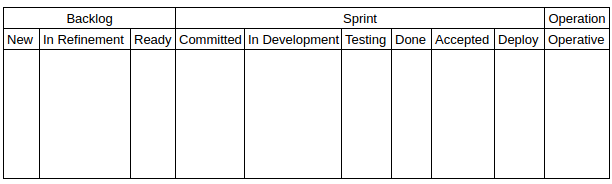
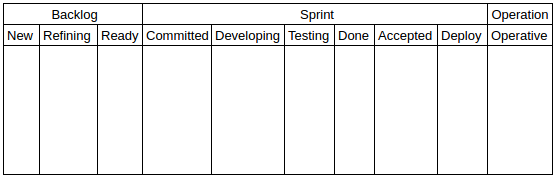
Add CFD diagram to scrumban section

Changed region(s): [[0.0, 0.0, 1.0, 0.9831]]

diff --git a/content/complementary.tex b/content/complementary.tex
@@ -392,19 +392,24 @@ Scrum y Lean tienen muchas coincidencias conceptuales. Para ambos, el componente
 
 \subsection{Ampliar Scrum con Kanban}
 
-Scrum se puede complementar y mejorar agregando Kanban. Para eso se busca entregar valor con entregas tempranas y frecuentes, focalizando en hacerlo mediante un flujo de trabajo constante, estable y eficiente. Para lograrlo se siguen tres pilares: mostrar el proceso del flujo de trabajo, limitar el trabajo en curso y optimizar el flujo. Para mostrar el proceso hay que reemplazar en el tablero kanban los estados ambiguos o genéricos por concretos, como por ejemplo el estado “en progreso” (“on going” o “doing”) por todos los estados reales del flujo de trabajo en curso.  Un ejemplo de un flujo completo (ver fig. \ref{fig:Scrum-Kanban-Board-to-Development}) puede ser: nueva (new), refinanda (in refinement), lista (ready), comprometida (committed), desarrollando (in development), probando (testing), completa (done), aceptada (accepted), desplegando (deploy) y en operación (operative). Hecho esto, el equipo debe buscar mantener el foco de trabajo del sprint en un límite de cantidad de historias que se trabajan en paralelo. El equipo debe buscar descubrir cuál es el límite con el que pueden trabajar con cadencia sin peligrar el objetivo del sprint. Y, finalmente, debe buscar que no haya cuellos de botella en ninguno de estos estados o pasos del flujo. Esto es lo básico que se debería hacer para sumar Kanban a Scrum. También se pueden agregar el manejo de las métricas Kanban, como el cycle time, y herramientas de monitoreo visual como el diagrama de flujo acumulado o CFD.
+Scrum se puede complementar y mejorar agregando Kanban. Para eso se busca entregar valor con entregas tempranas y frecuentes, focalizando en hacerlo mediante un flujo de trabajo constante, estable y eficiente. Para lograrlo se siguen tres pilares: mostrar el proceso del flujo de trabajo, limitar el trabajo en curso y optimizar el flujo. Para mostrar el proceso hay que reemplazar en el tablero kanban los estados ambiguos o genéricos por concretos, como por ejemplo el estado “en progreso” (“on going” o “doing”) por todos los estados reales del flujo de trabajo en curso.  Un ejemplo de un flujo completo (ver fig. \ref{fig:Scrum-Kanban-Board-to-Development}) puede ser: nueva (new), refinanda (refining), lista (ready), comprometida (committed), desarrollando (developming), probando (testing), completa (done), aceptada (accepted), desplegando (deploy) y en operación (operative). Hecho esto, el equipo debe buscar mantener el foco de trabajo del sprint en un límite de cantidad de historias que se trabajan en paralelo. El equipo debe buscar descubrir cuál es el límite con el que pueden trabajar con cadencia sin peligrar el objetivo del sprint. Y, finalmente, debe buscar que no haya cuellos de botella en ninguno de estos estados o pasos del flujo. Esto es lo básico que se debería hacer para sumar Kanban a Scrum. También se pueden agregar el manejo de las métricas Kanban, como el cycle time, y herramientas de monitoreo visual como el diagrama de flujo acumulado o CFD.
 
 \begin{figure}[h]
   \centering
   \includegraphics[width=1\textwidth]{Scrum-Kanban-Board-to-Development}
-  \caption{Tablero Kanban ejemplo para un equipo de desarrollo}
+  \caption{Tablero Scrum-Kanban ejemplo para un equipo de desarrollo}
   \centering
   \label{fig:Scrum-Kanban-Board-to-Development} %\ref{fig:Scrum-Kanban-Board-to-Development}
 \end{figure}
-
 
 \subsection{Ampliar Kanban con Scrum, Scrumban}
 
 Una metodología amiga de Scrum es Scrumban. Se trata de una metodología mixta y flexible entre Scrum y Kanban. Combina las la flexibilidad de Kanban y las características básicas de Scrum. Por un lado, se toma de Kanban lo de mantener un trabajo continuo, exponer el flujo de trabajo, el tablero de trabajo persistente, auto-asignaciones de tareas solamente por el sistema del tomar y jalar (pull), limitar el trabajo en curso y buscar optimizar el flujo teniendo en cuenta la métrica “cycle time”. Por otro, se agrega de Scrum la ceremonia de planning, la retrospectiva como reunión de mejora contínua (Kaizen), el trabajo en ciclos o iteraciones sin ser limitativo o restrictivo de trabajo y la priorización, que se recomienda hacer en cada planificación. Dentro de la flexibilidad que brinda, hace optativo el usar otras partes o prácticas de Scrum. Bajo esta metodología no es necesario estimar, puede ser algo optativo, ya que no se necesita calcular el trabajo que entra en una iteración porque el trabajo es continuo. Aunque sí se pueden estimar tiempos de entrega y/o tamaños de paquetes de trabajo. Por otro lado, al ser el trabajo contínuo y no tener un compromiso formal de trabajo comprometido en una iteración, los cambios y re-priorizaciones pueden hacerse en cualquier momento. También es muy flexible el tipo de roles de los miembros del equipo debido a que no prescribe roles específicos ni es necesaria la multidisciplinariedad que recomienda Scrum. Además, como se mencionó antes y al igual que en Kanban, el tablero permanece persistente, mientras que sólo cambian las tareas y sus prioridades. A diferencia de Scrum, donde el tablero de sprint se renueva en cada iteración. Relacionado a la planificación, en Scrumban se planifica focalizados en los releases y no es obligadamente necesario hacerse en la planning de cada iteración; pues, la planificación se puede realizar solo bajo demanda. Este método es muy útil principalmente para procesos de ritmo rápido, para startups, proyectos que requieren fabricación de productos constante, equipos y proyectos con ambientes muy dinámicos y cambiantes, equipos de solución de problemas de contingencias en producción, equipos de mantenimiento, soporte o desarrollo de infraestructura. También es útil para integrar (coordinar y sincronizar) otros equipos de soporte a los equipos Scrum, por ejemplo bajo el marco DevOps. En estos casos, los equipos soporte pueden usar Scrumban y los de desarrollo Scrum.
 
-
+\begin{figure}[h]
+  \centering
+  \includegraphics[width=0.80\textwidth]{Scrumban-Board-to-Development}
+  \caption{Tablero Scrumban y CFD ejemplo para un equipo de desarrollo}
+  \centering
+  \label{fig:Scrumban-Board-to-Development} %\ref{fig:Scrumban-Board-to-Development}
+\end{figure}
